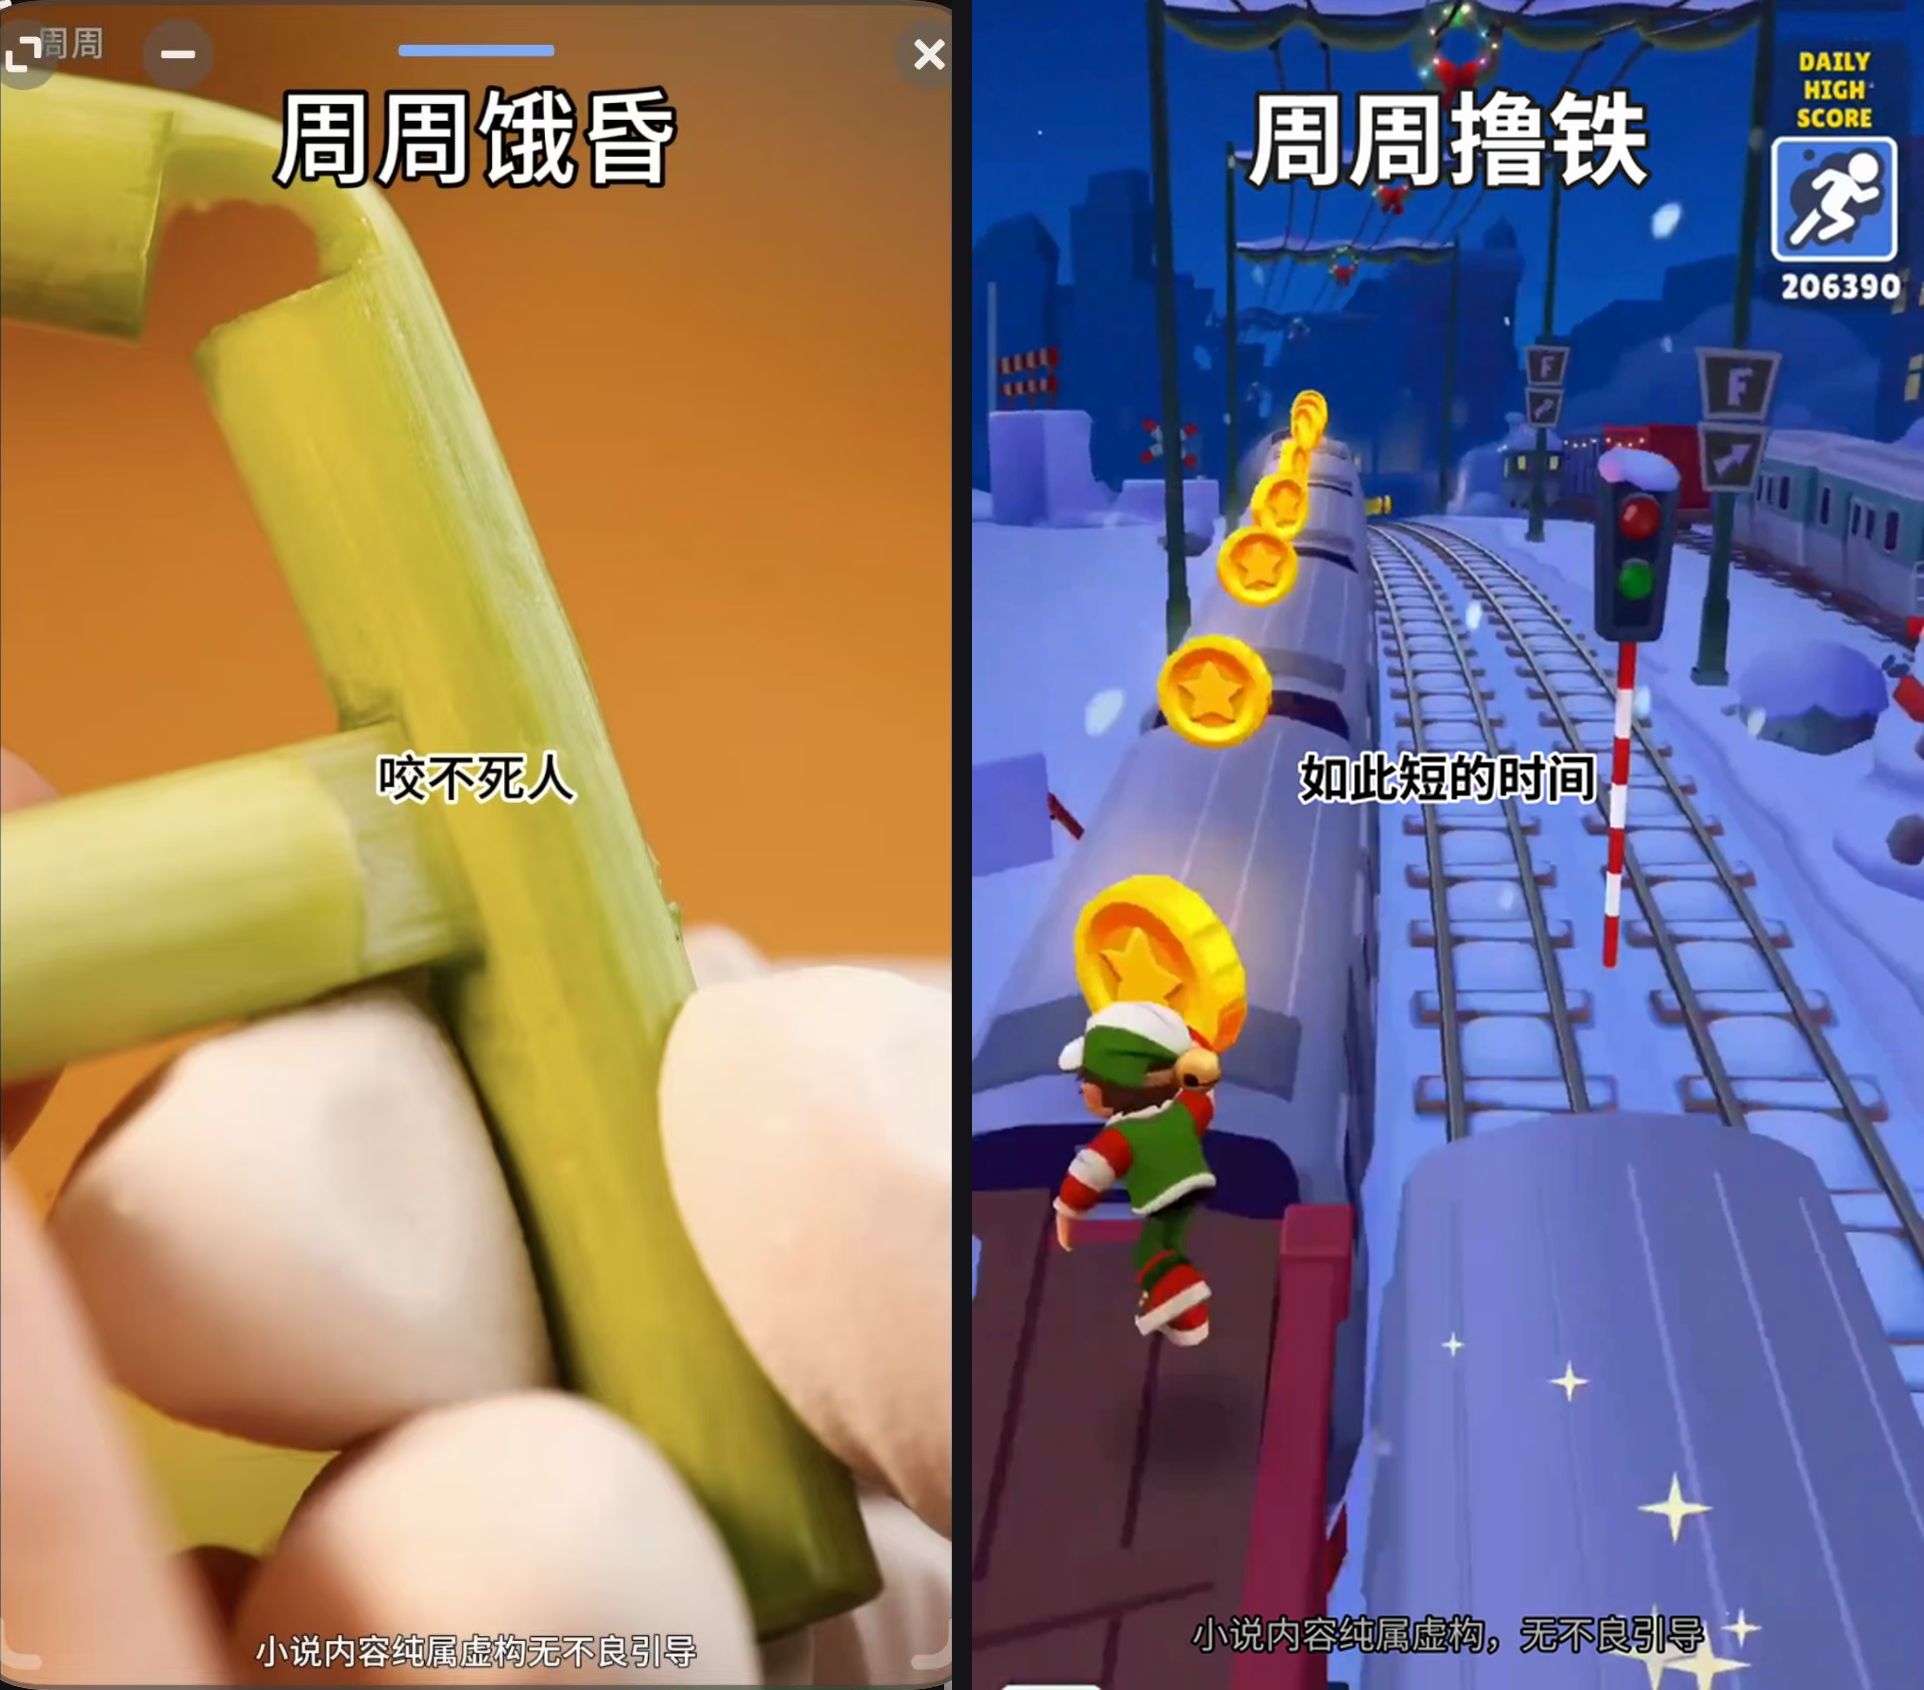
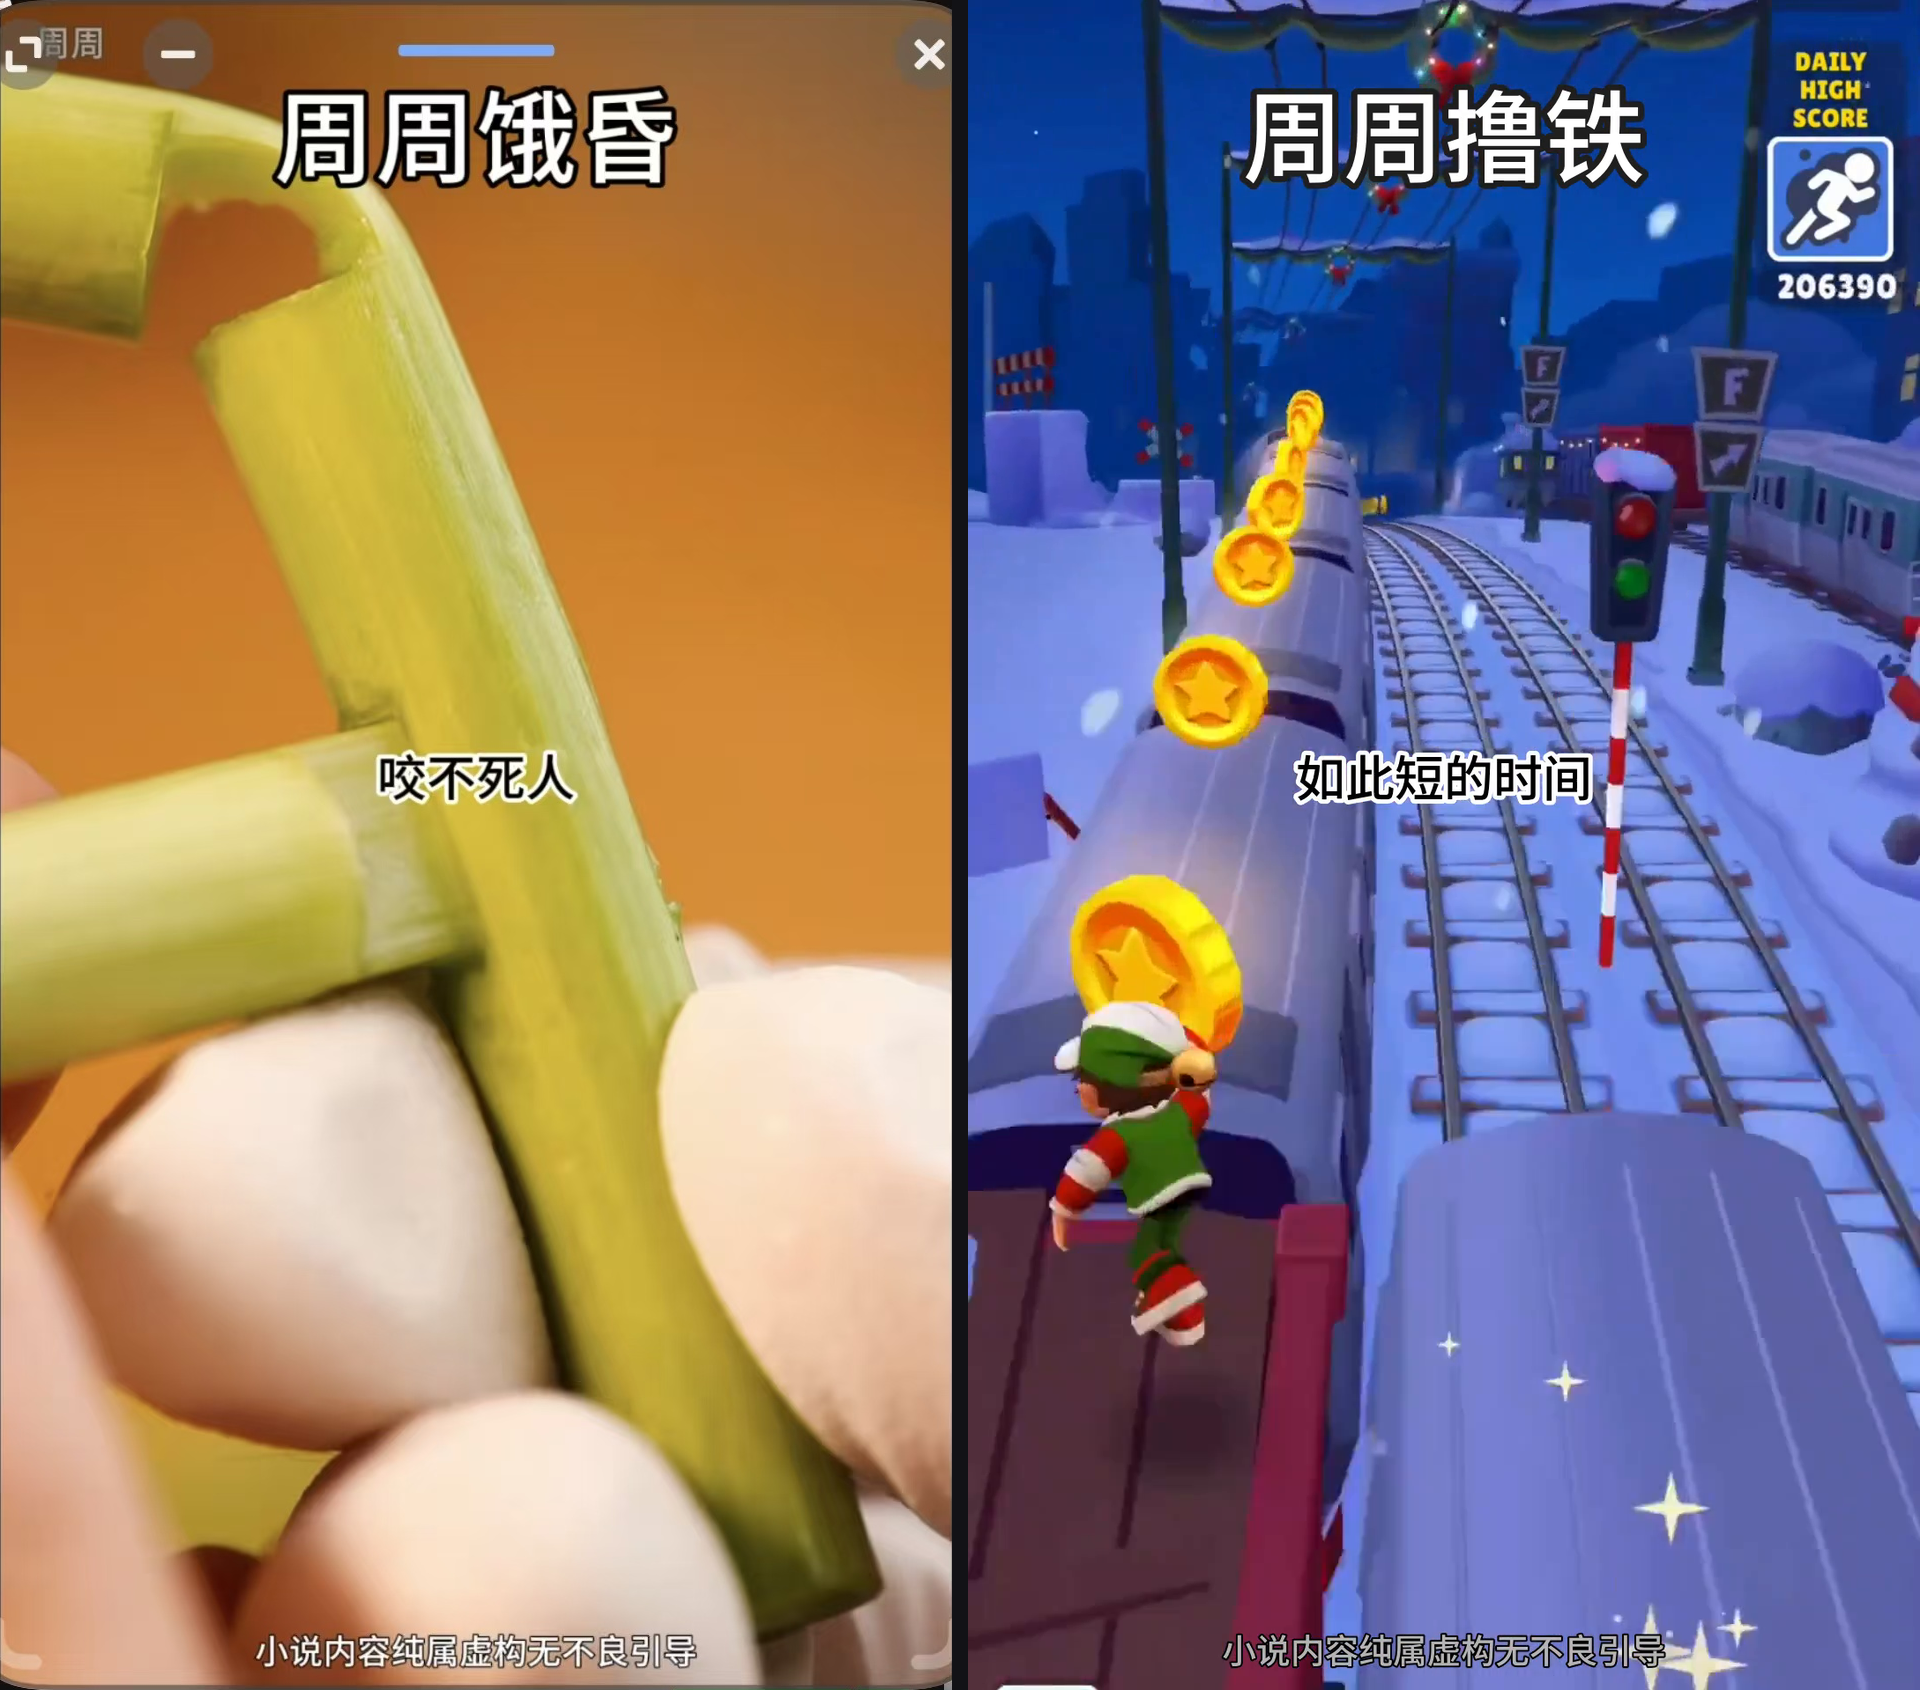
fix: 免责声明字色改成纯白
原来是浅灰 #B4B4B4——那是当初为了'别抢戏'自己定的。参考里量出来字心平均
RGB (222,210,201)，偏白，那点灰是亮背景透过 JPEG 压缩渗进来的。
压在花花绿绿的画面上，白字加黑边才读得清。

⚠ 顺带发现豁免的一个副作用：指纹现在用老样式算，所以【任何样式改动都不再
触发重烧】——连新项目也不会。要看新样式得手动把那条的 master/export 作废。
这是老片子不重烧的必然代价，记在这里免得下次以为是没生效。

diff --git a/src/subtitles/ass.ts b/src/subtitles/ass.ts
@@ -289,7 +289,7 @@ export function buildAss (opts: BuildAssOptions): string {
     : [
         `Style: Sub,${FONT_FAMILY},${fontSize},&H00000000,&H00000000,&H00FFFFFF,&H00000000,0,0,0,0,100,100,0,0,1,${Math.max(1, Math.round(fontSize * SUBTITLE_OUTLINE_RATIO))},0,2,60,60,${marginV},1`,
         `Style: Title,${FONT_FAMILY},${TITLE_FONT_SIZE},&H00FFFFFF,&H00FFFFFF,&H00202020,&H00000000,0,0,0,0,100,100,0,0,1,${TITLE_OUTLINE},0,8,60,60,${TITLE_MARGIN_V},1`,
-        `Style: Disclaimer,${FONT_FAMILY},${DISCLAIMER_FONT_SIZE},&H00B4B4B4,&H00FFFFFF,&H00000000,&H00000000,0,0,0,0,100,100,0,0,1,${DISCLAIMER_OUTLINE},0,2,60,60,${DISCLAIMER_MARGIN_V},1`,
+        `Style: Disclaimer,${FONT_FAMILY},${DISCLAIMER_FONT_SIZE},&H00FFFFFF,&H00FFFFFF,&H00000000,&H00000000,0,0,0,0,100,100,0,0,1,${DISCLAIMER_OUTLINE},0,2,60,60,${DISCLAIMER_MARGIN_V},1`,
       ].join('\n')
 
   return `[Script Info]
